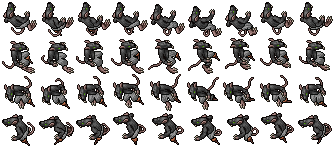
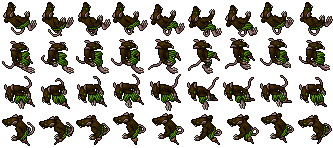
Pirat Lower: remove Elite Pirat da hunt e recolore outfits dos pirats
- Elite Pirat sai do pool da hunt (segue no monsterdata p/ o Ratmiral)
- Sheets regerados do DAT 15.x com cores/lookAddons oficiais do Canary
  (os 5 slugs dividiam o MESMO png cinza, sem addon)
- avg* recalculados sobre os 4 monstros restantes

Generated with [Devin](https://devin.ai)

diff --git a/tibia-idle/game/js/pirat-lower.js b/tibia-idle/game/js/pirat-lower.js
@@ -1,7 +1,7 @@
 /* pirat-lower.js — HUNT PIRAT LOWER (nível 100–150).
  *
  * Monstros do Canary:
- *   pirat-bombardier, pirat-cutthroat, pirat-mate, pirat-scoundrel, elite-pirat.
+ *   pirat-bombardier, pirat-cutthroat, pirat-mate, pirat-scoundrel.
  *
  * Mapa: piratlower.otbm
  *   bounds: {1018,1016,7} .. {1038,1030,7}
@@ -76,7 +76,7 @@
     pack: 6,
     packMin: 5,
     packMax: 8,
-    monsters: ["pirat-bombardier", "pirat-cutthroat", "pirat-mate", "pirat-scoundrel", "elite-pirat"],
+    monsters: ["pirat-bombardier", "pirat-cutthroat", "pirat-mate", "pirat-scoundrel"],
     color: "#4a5a6a",
     scene: "cave",
     otbm: "piratlower",
@@ -88,11 +88,11 @@
     otbmRuntimeHeight: 13,
     otbmSpawn: { x: 1028, y: 1022, z: 7 },
     otbmMobBounds: { x: 1020, y: 1017, w: 15, h: 10, z: 7 },
-    avgHp: 6060,
-    avgExp: 5100,
-    avgDamage: 360,
-    avgArmor: 60,
-    avgGold: 120,
+    avgHp: 2575,
+    avgExp: 1875,
+    avgDamage: 400,
+    avgArmor: 68,
+    avgGold: 874,
     respawn: 0.9,
   };
 

diff --git a/tibia-idle/tools/colorize_monsters_canary.py b/tibia-idle/tools/colorize_monsters_canary.py
@@ -119,6 +119,14 @@ CANARY_COLORS = {
     "pirate-cutthroat": None,
     "pirate-buccaneer": None,
     "pirate-corsair":   None,
+    # --- A Pirate's Tail: todos dividem looktype 1346; o que diferencia é a
+    # cor + addon de cada .lua do Canary (elite usa looktype 534).
+    "pirat-bombardier":  (57, 125, 86, 67),
+    "pirat-cutthroat":   (2, 96, 78, 96),
+    "pirat-mate":        (0, 95, 95, 113),
+    "pirat-scoundrel":   (97, 119, 80, 80),
+    "pirat-artillerist": (126, 94, 86, 94),
+    "elite-pirat":       (79, 79, 94, 0),
     # --- misc hunts
     "hunter":        (113, 114, 39, 115),
     "wild-warrior":  (113, 39, 113, 115),
@@ -185,7 +193,10 @@ FORCE_REGEN = {"amazon", "valkyrie", "naga-warrior", "naga-archer",
                "orc-rider", "orc-leader", "orc-warlord", "minotaur",
                "minotaur-archer", "minotaur-guard", "minotaur-mage",
                "pirate-marauder", "pirate-cutthroat", "pirate-buccaneer",
-               "pirate-corsair", "knight-s-apparition", "paladin-s-apparition",
+               "pirate-corsair",
+               "pirat-bombardier", "pirat-cutthroat", "pirat-mate",
+               "pirat-scoundrel", "pirat-artillerist", "elite-pirat",
+               "knight-s-apparition", "paladin-s-apparition",
                "sorcerer-s-apparition", "druid-s-apparition", "monk-s-apparition",
                "rage-squid", "squid-warden", "soulsnatcher", "floating-savant", "fury",
                "cobra-vizier", "cobra-scout",
@@ -202,7 +213,9 @@ FORCE_REGEN = {"amazon", "valkyrie", "naga-warrior", "naga-archer",
                "acolyte-of-the-cult", "adept-of-the-cult", "enlightened-of-the-cult"}
 
 # lookAddons oficial. Scout usa addon 2; Assassin addon 1; Vizier sem addon.
-CANARY_ADDONS = {"cobra-vizier": 0, "cobra-scout": 2, "cobra-assassin": 1,
+CANARY_ADDONS = {"pirat-bombardier": 2, "pirat-cutthroat": 1, "pirat-mate": 3,
+                 "pirat-scoundrel": 0, "pirat-artillerist": 2, "elite-pirat": 0,
+                 "cobra-vizier": 0, "cobra-scout": 2, "cobra-assassin": 1,
                   "fury": 1,
                   "falcon-knight": 1, "falcon-paladin": 2,
                   "grand-commander-soeren": 2,
